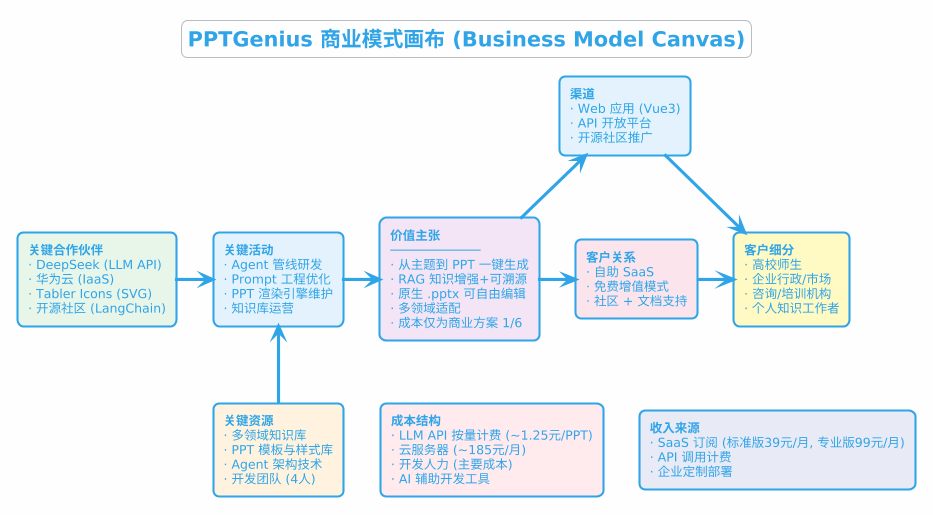
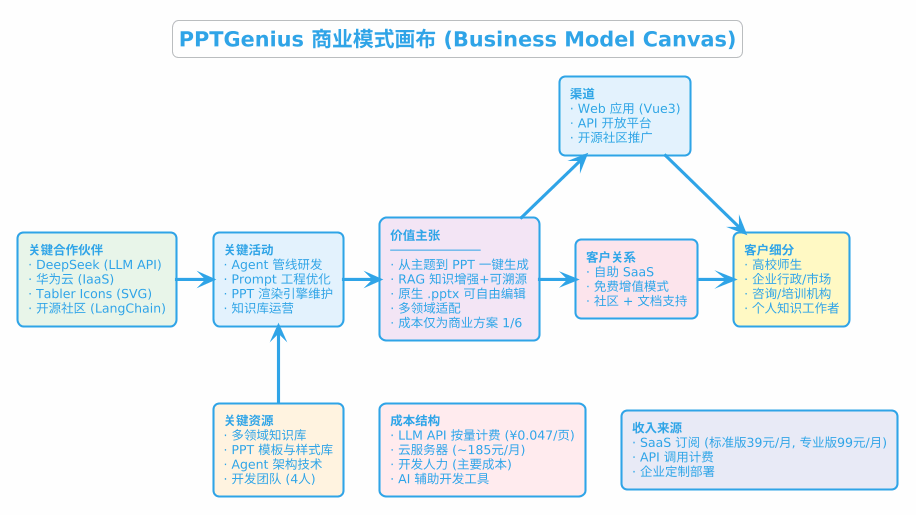
docs: 用becnmark数据更新报告

Changed region(s): [[0.0, 0.1243, 0.9476, 0.7767], [0.214, 0.7767, 1.0, 0.9631], [0.1834, 0.0311, 0.8253, 0.0932]]

diff --git a/docs/final/engineering_management_report.md b/docs/final/engineering_management_report.md
@@ -194,10 +194,22 @@ M2 期间进行了一次重大架构重构（从 Coordinator + LangGraph 到 Uni
 | AI 辅助开发工具 (V4 Pro) | 168.52 | 智能开发环境 API 调用 |
 | 功能测试 (Flash) | 29.78 | 14 轮对话 + 基准测试 |
 | **合计** | **198.30** | |
-| 大纲生成 (单次) | ~0.2 元 | 不包含修改 |
-| PPT 生成 (单次) | ~1.3 元 | 不包含修改|
+| 大纲生成 (每页) | ¥0.007 | benchmark 21 次均值 |
+| PPT 生成 (每页) | ¥0.043 | benchmark 18 次均值 |
+| 单次完整生成 (20 页) | ¥0.90 | (0.007 + 0.043) × 20 |
 
-### 5.3 部署成本预估（月度运营）
+### 5.3 成本模型 (线性拟合)
+
+对 benchmark 数据做线性回归 `cost = base + marginal × slides`：
+
+| 类型 | 基础成本 (¥) | 边际成本 (¥/页) | 平均 per-slide (¥) | 平均 per-pres (¥) |
+|------|------------|----------------|-------------------|------------------|
+| 大纲 | 0.081 | 0.002 | 0.007 | 0.11 |
+| PPT | ≈ 0 | 0.054 | 0.043 | 0.81 |
+
+**解读**：大纲有明确的基础成本 ¥0.081（Explore Agent 搜索知识库的固定开销），边际成本极低（Generator 每页仅增加 ¥0.002）。PPT 基础成本接近零，成本几乎完全由 Slide Agent 逐页生成驱动（每页 ¥0.054）。这一差异源于架构设计：大纲的搜索是一次性的（Explore），而 PPT 的生成是逐页并行的（Slide Agent × N）。
+
+### 5.4 部署成本预估（月度运营）
 
 | 项目 | 估算 (RMB/月) | 配置 |
 |------|-------------|------|
@@ -208,7 +220,7 @@ M2 期间进行了一次重大架构重构（从 Coordinator + LangGraph 到 Uni
 | DeepSeek API (100 次/月) | ~125 | 按用量计费 |
 | **月度运营合计** | **~314 元/月** |
 
-### 5.4 成本效率指标
+### 5.5 成本效率指标
 
 | 指标 | 值 |
 |------|------|
@@ -218,12 +230,12 @@ M2 期间进行了一次重大架构重构（从 Coordinator + LangGraph 到 Uni
 | 每功能点工时 | 368 / 25 ≈ **14.7h/功能点** |
 | API 成本占总现金支出 | 198.30 / 198.30 = **100%** |
 
-### 5.5 与市场同类产品对比
+### 5.6 与市场同类产品对比
 
 | 对比项 | PPTGenius | 商业方案 (Gamma.app) |
 |--------|-----------|---------------------|
-| 单次 PPT 生成成本 | ~8 元 (API) | ~50 元 (订阅均摊) |
-| 生成时间 | 7-8 分钟 | 1-2 分钟 |
+| 单次 PPT 生成成本 | ¥0.050/页 (20 页约 ¥1.0) | ~50 元 (订阅均摊) |
+| 生成时间 | ~7 分钟 (大纲 2.5 + PPT 4.7) | 1-2 分钟 |
 | 可编辑性 | 原生 .pptx，可自由编辑 | 平台内编辑，导出受限 |
 | RAG 知识增强 | 支持，可溯源 | 不支持 |
 | 定制化 | 完全开源可定制 | 受限于平台 |

diff --git a/docs/final/development_journey.md b/docs/final/development_journey.md
@@ -151,7 +151,7 @@ Coordinator (意图分类 → 分发)
 
 ## 5. 大纲生成管线演进
 
-大纲生成管线经历了三个版本的迭代，每次迭代都带来了实际的生成时间缩减：7-8 分钟 → 4-5 分钟 → 2-3 分钟。相比 PPT 生成管线（7-8 分钟 → 4-6 分钟，且不稳定），大纲管线的优化效果更为显著。
+大纲生成管线经历了三个版本的迭代，每次迭代都带来了实际的生成时间缩减：7-8 分钟 → 4-5 分钟 → 2m 25s (benchmark 实测)。相比 PPT 生成管线（7-8 分钟 → 4m 39s 实测，且不稳定），大纲管线的优化效果更为显著。
 
 ### 5.1 V1: Generator-Evaluator 循环系统 (~7-8 min)
 
@@ -242,7 +242,7 @@ Evaluator 在 V3 架构中没有被立即移除，而是在实际运行中观察
 |------|---------|---------|---------|
 | V1 Generator-Evaluator | 7-8 min | 7-8 min | 串行生成 + 评估循环 |
 | V2 Section 并行 | 4-5 min | 7-8 min | Generator 搜索耗时 + Evaluator 评估 |
-| V3 Explore + Generator | **2-3 min** | 4-6 min | Explore 搜索 (仅一次) |
+| V3 Explore + Generator | **2m 25s** (实测) | **4m 39s** (实测) | Explore 搜索 (仅一次) |
 
 大纲管线的优化效果比 PPT 更显著，原因在于大纲的瓶颈是"搜索"（可集中执行一次），而 PPT 的瓶颈是"每页独立的 LLM 推理"（无法进一步压缩单页时间，只能靠并发）。
 
